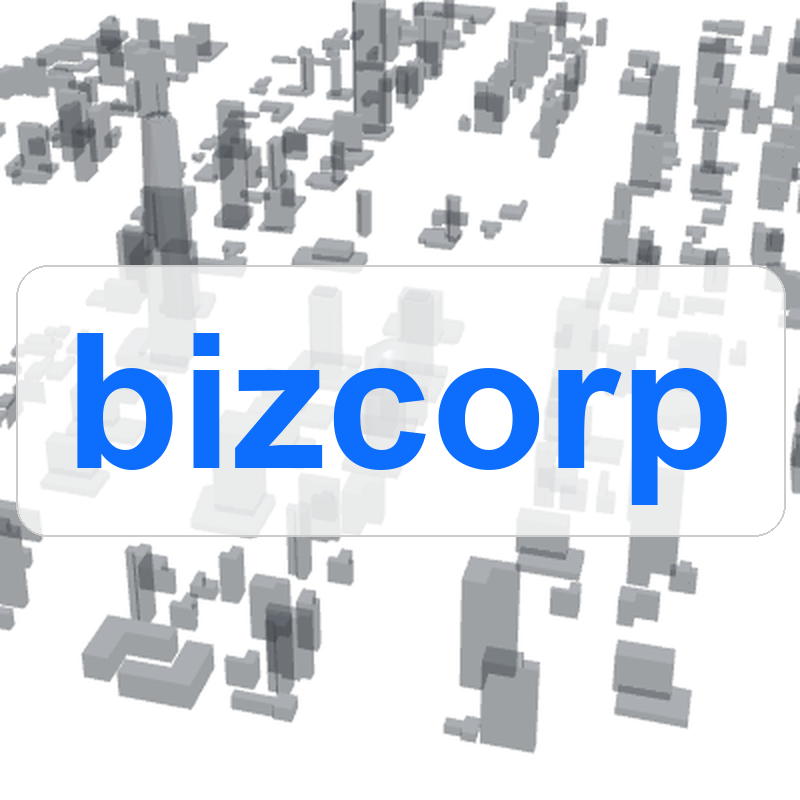
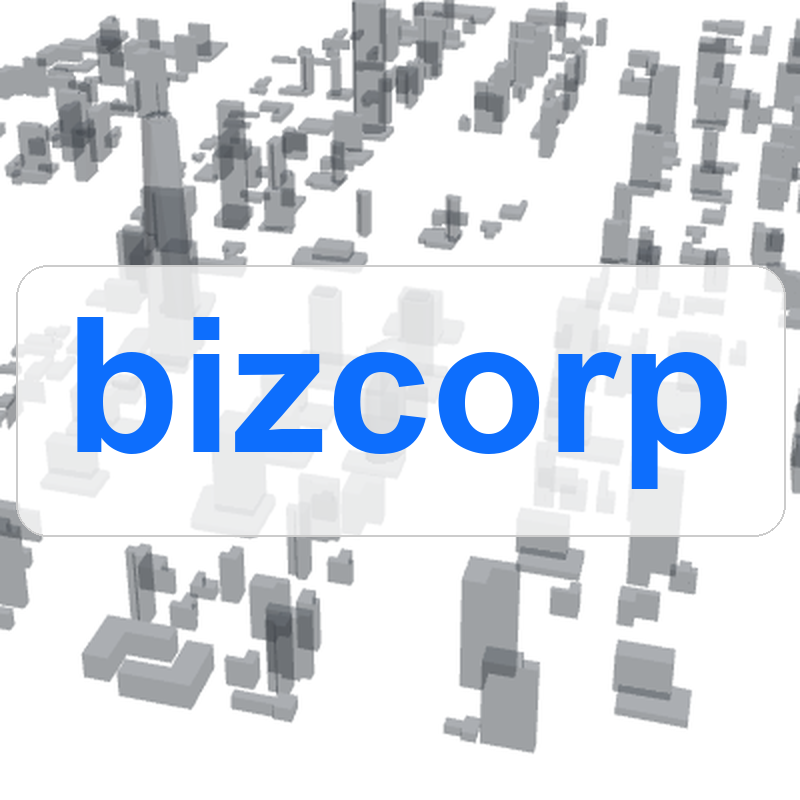
fix: correct ink-aware padding ratio on OG images, bump cache v11

diff --git a/frontend/index.html b/frontend/index.html
@@ -12,7 +12,7 @@
     />
     <meta
       property="og:image"
-      content="https://www.wingshot.dev/og-image.png?v=10"
+      content="https://www.wingshot.dev/og-image.png?v=11"
     />
     <meta property="og:url" content="https://www.wingshot.dev" />
     <meta property="og:type" content="website" />
